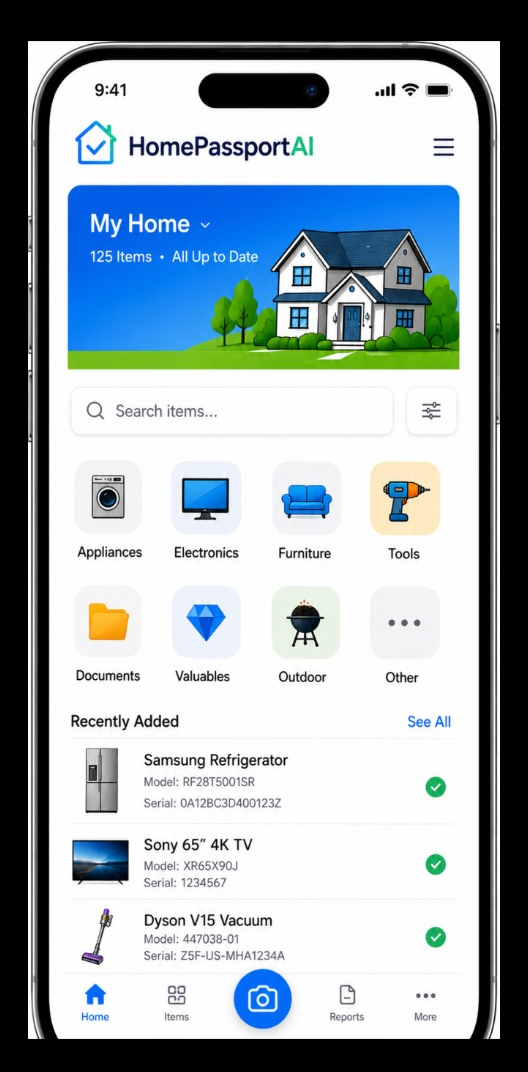
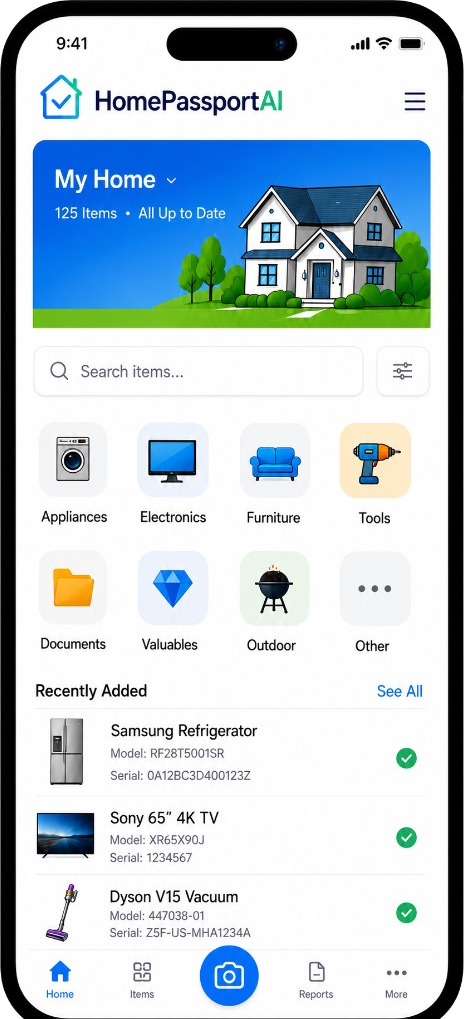
updates

diff --git a/css/app.css b/css/app.css
@@ -1595,12 +1595,17 @@ body {
 }
 
 .landing__banner-header-img {
+  --banner-header-h: 3.35rem;
   display: block;
   width: auto;
-  height: 2.75rem;
-  max-width: min(100%, 22rem);
+  height: var(--banner-header-h);
+  max-width: min(100%, 28rem);
   object-fit: contain;
   object-position: left center;
+}
+
+.landing__banner-meta {
+  padding-left: calc(var(--banner-header-h, 2.75rem) * 184 / 112);
 }
 
 .landing__banner-tagline {
@@ -1616,8 +1621,8 @@ body {
 }
 
 .landing__build-tag {
-  margin: 0;
-  font-size: 0.72rem;
+  margin: 0.12rem 0 0;
+  font-size: 0.58rem;
   font-weight: 500;
   color: #5b6472;
 }
@@ -1650,8 +1655,8 @@ body {
   display: block;
   width: min(100%, 340px);
   height: auto;
-  border-radius: 0;
-  box-shadow: 0 18px 42px rgba(0, 0, 0, 0.18);
+  border-radius: 28px;
+  box-shadow: 0 16px 36px rgba(15, 23, 42, 0.12);
 }
 
 .landing__hero {
@@ -1834,7 +1839,7 @@ body {
   }
 
   .landing__banner-header-img {
-    height: 2.35rem;
+    --banner-header-h: 2.85rem;
     max-width: 100%;
   }
 
@@ -1852,8 +1857,8 @@ body {
   }
 
   .landing__banner-header-img {
-    height: 3.25rem;
-    max-width: 26rem;
+    --banner-header-h: 4.1rem;
+    max-width: 32rem;
   }
 
   .landing__banner-tagline {

diff --git a/index.html b/index.html
@@ -33,7 +33,7 @@
       href="https://fonts.googleapis.com/css2?family=DM+Sans:opsz,wght@9..40,400;9..40,500;9..40,600;9..40,700&family=Montserrat:wght@400;600;700&display=swap"
       rel="stylesheet"
     />
-    <link rel="stylesheet" href="./css/app.css?v=65" />
+    <link rel="stylesheet" href="./css/app.css?v=67" />
   </head>
   <body>
     <div id="app" class="app">
@@ -110,14 +110,16 @@
                   height="112"
                   decoding="async"
                 />
-                <p class="landing__banner-tagline">Scan, Organize, Protect, Peace of Mind</p>
+                <div class="landing__banner-meta">
+                  <p class="landing__banner-tagline">Scan, Organize, Protect, Peace of Mind</p>
+                  <p class="landing__build-tag" id="landing-build-tag">Phase A · build …</p>
+                </div>
               </div>
               <div class="landing__top-buttons">
                 <button type="button" class="btn btn--ghost landing__top-btn" id="btn-landing-header-sign-in">Sign In</button>
                 <button type="button" class="btn btn--primary landing__top-btn" id="btn-landing-header-register">Register</button>
               </div>
             </div>
-            <p class="landing__build-tag" id="landing-build-tag">Phase A · build …</p>
           </header>
 
           <div class="landing__split">
@@ -189,7 +191,7 @@
             <div class="landing__phone-col">
               <img
                 class="landing__phone-straight"
-                src="./images/landing-phone-straight.png?v=5"
+                src="./images/landing-phone-straight.png?v=6"
                 alt="HomePassportAI app on iPhone — My Home screen with house illustration, categories, and recently added items"
                 decoding="async"
               />

diff --git a/js/config.js b/js/config.js
@@ -1,7 +1,7 @@
 /** @readonly */
 import { runtimeConfig } from "./runtime-config.js";
 
-export const APP_VERSION = "0.9.16";
+export const APP_VERSION = "0.9.18";
 
 function resolveAnalyzeApiUrl() {
   if (typeof location === "undefined") return "/api/analyze";